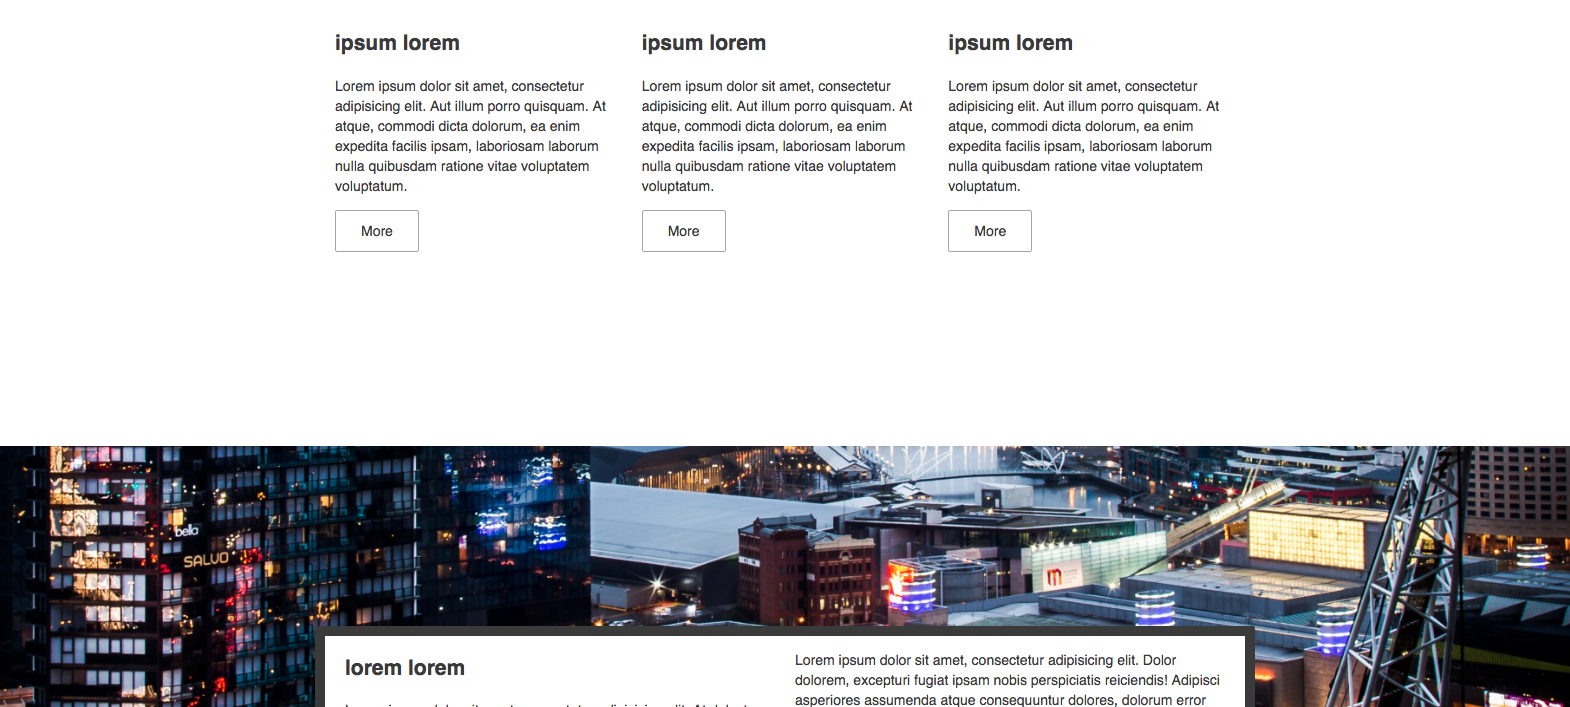
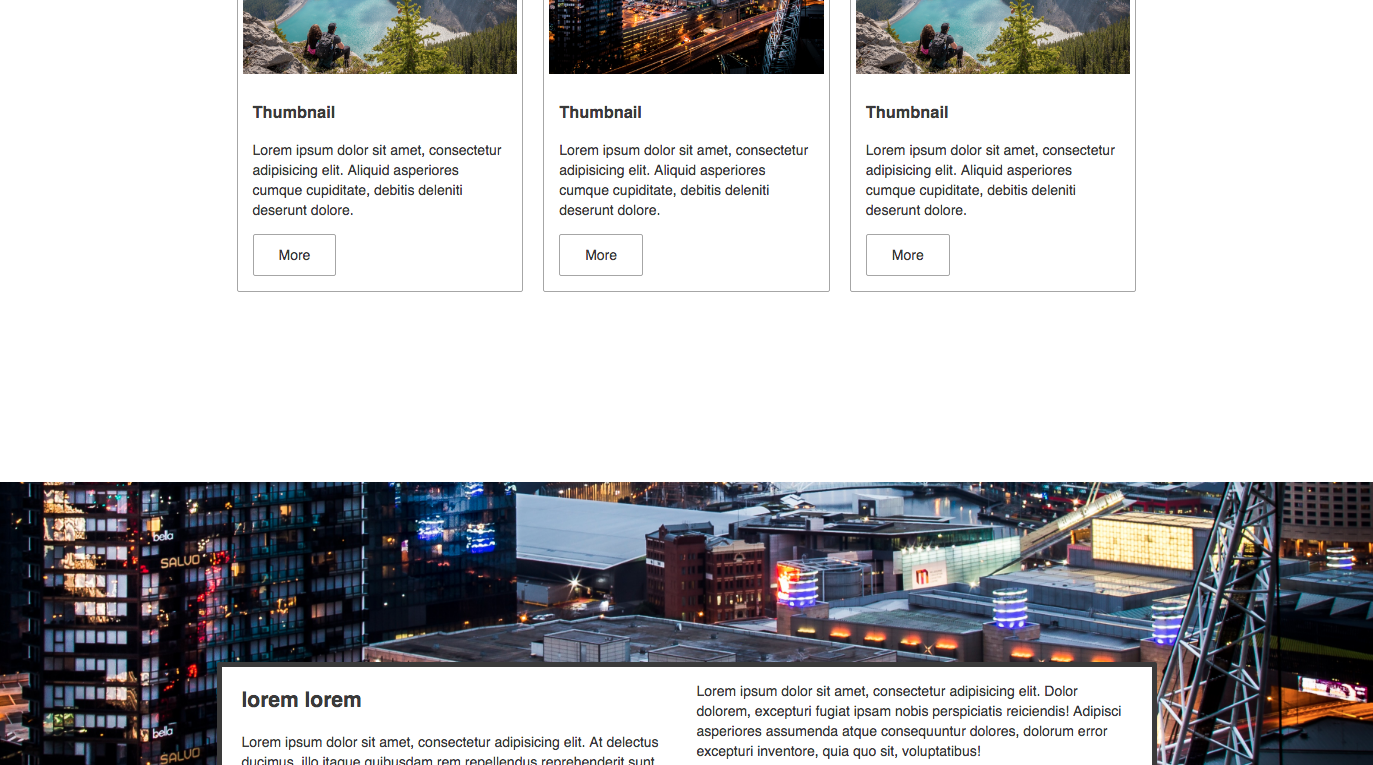
custom border adjustments; screen replace

diff --git a/demo/page.html b/demo/page.html
@@ -37,7 +37,7 @@
             </div>
         </section>
         <section>
-            <div class="container top-bot-margin" style="border: 10px solid;">
+            <div class="container top-bot-margin" style="border: 5px solid;">
                 <div class="col-md-12">
                     <h2>ipsum lorem</h2>
                     <p>Lorem ipsum dolor sit amet, consectetur adipisicing elit. Aut illum porro quisquam. At atque, commodi dicta dolorum, ea enim expedita facilis ipsam, laboriosam laborum nulla quibusdam ratione vitae voluptatem voluptatum.</p>
@@ -102,7 +102,7 @@
             </div>
         </section>
         <section class="filled-bg -attch-fixed" style="background-image: url('material/img-4.jpg')">
-            <div class="container top-bot-margin" style="background-color: rgb(255, 255, 255); border-radius: 2px; border: 10px solid;">
+            <div class="container top-bot-margin" style="background-color: rgb(255, 255, 255); border-radius: 2px; border: 5px solid;">
                 <div class="col-md-6">
                     <h1>lorem lorem</h1>
                     <p>Lorem ipsum dolor sit amet, consectetur adipisicing elit. At delectus ducimus, illo itaque quibusdam rem repellendus reprehenderit sunt veniam! Aspernatur dignissimos dolorum.</p>

diff --git a/css-mount.css b/css-mount.css
@@ -664,10 +664,9 @@ hr {
  * footer
  * =============================*/
 footer {
-  background-color: #3a3a3a;
   color: #fff;
   padding: 5px 0px;
-  border-top: 2px solid #ddd; }
+  background-color: #3a3a3a; }
 
 .btn {
   display: inline-block;

diff --git a/components/_base.scss b/components/_base.scss
@@ -145,8 +145,7 @@ hr {
  * =============================*/
 
 footer {
-  background-color: $color-base;
   color: #fff;
   padding: ($default-space / 2) 0px;
-  border-top: 2px solid $color-smooth-grey;
+  background-color: $color-base;
 }
